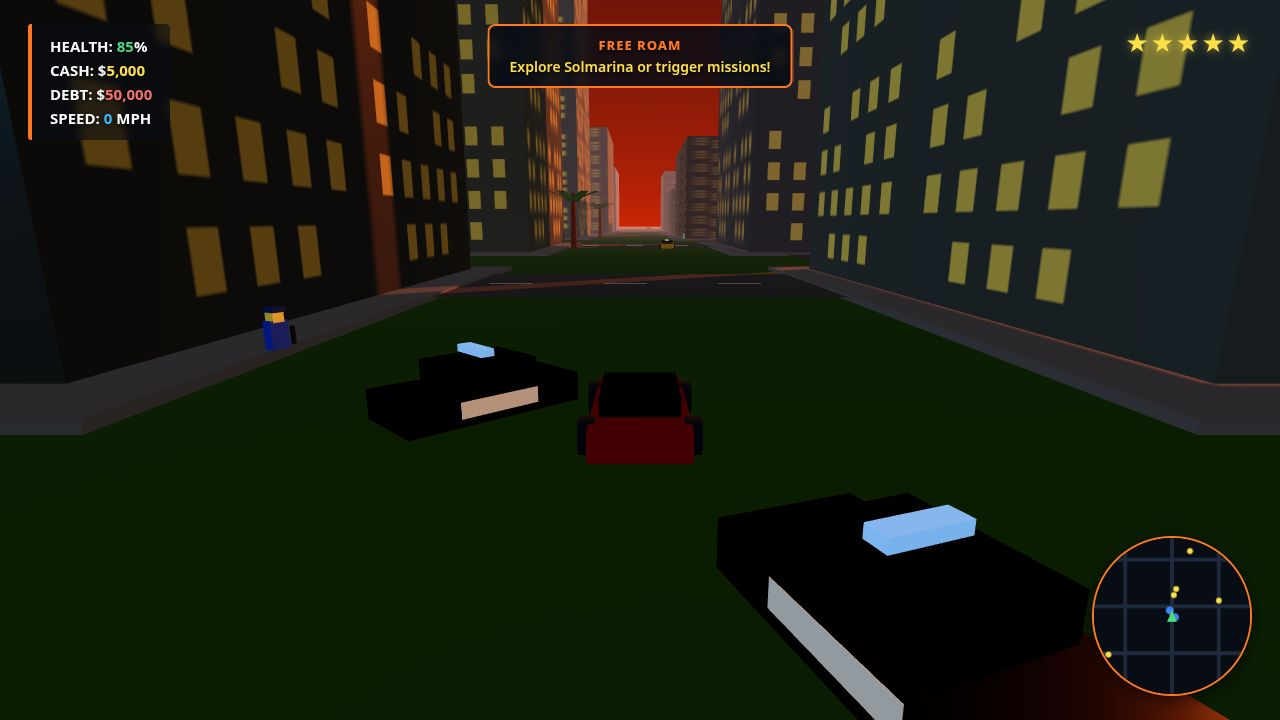
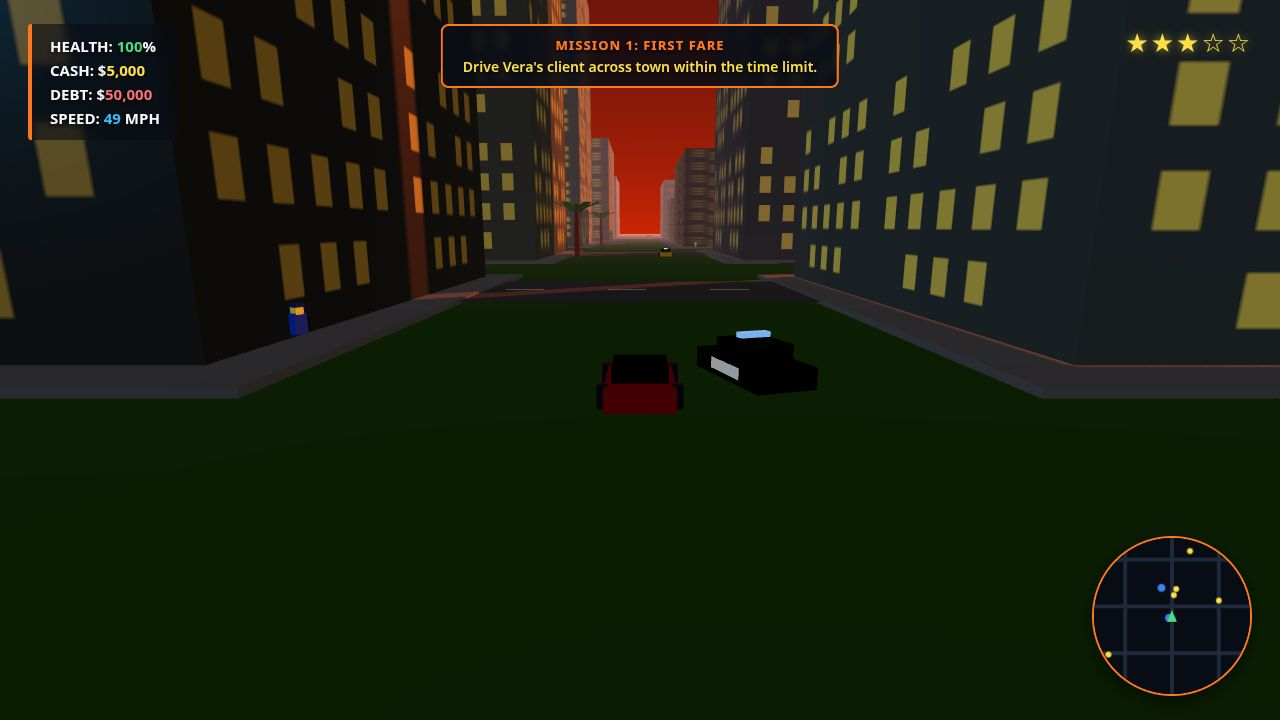
R3b3c: HUD refresh in stageShot, onfoot street position, beach de-blur + retaken screenshots
- stageShot() now calls hud.updateHUD() + updateMinimap() with the
  tick()-identical payload before freezing (fixes frozen HUD: 0 stars,
  0 MPH, hardcoded banner in R3b3b shots)
- mission objective fallback: curM.objective = curM.desc (mission objects
  carry desc, not objective; without this the banner renders 'undefined')
- onfoot player (-117,0,84) -> (70,0,0), waypoint -> (70,0,20): old spot
  was inside a building footprint; new spot is a real open road crossing
- hud.js: removed backdrop-filter blur(6px) from mission-complete screen
- Screenshots retaken: cover 3 stars/49 MPH, onfoot street+character,
  chase 4 stars/72 MPH, beach sharp; determinism 4/4 byte-identical
  (SPEED shown in MPH via HUD m/s->MPH conversion; state 22/32 m/s
  verified by probe, same as live gameplay)

diff --git a/game/src/shots.js b/game/src/shots.js
@@ -94,8 +94,8 @@ export function stageShot(game, name, seed) {
       m.packagesCollected = 2;
       m.packagesNeeded = 3;
       m.objective = "Collect 3 hidden packages around the city (2/3)";
-      m.waypoint.set(-117, 0, 93);
-      game.player.position.set(-117, 0, 84);
+      m.waypoint.set(70, 0, 20);
+      game.player.position.set(70, 0, 0);
       game.player.group.position.copy(game.player.position);
     }
     game.police.setWanted(0);
@@ -147,6 +147,10 @@ export function stageShot(game, name, seed) {
 
   if (name === 'cover' || name === 'chase') {
     game.missions.startMission(0);
+    // R3b3c: mission objects carry `desc`, not `objective` — without this
+    // updateHUD() would render the banner as "undefined".
+    const curM = game.missions.getCurrentMission();
+    if (curM) curM.objective = curM.desc;
     game.player.health = 100;
     if (name === 'cover') {
       if (game.activeCar) game.activeCar.speed = 22;
@@ -156,6 +160,27 @@ export function stageShot(game, name, seed) {
       game.police.setWanted(4);
     }
   }
+
+  // R3b3c: refresh HUD + minimap from the final staged state, before freezing.
+  // tick() early-returns once shotFrozen, so without this the frozen frame
+  // shows the initial HUD values. Payload identical to tick() in main.js.
+  const curMission = game.missions.getCurrentMission();
+  const waypoint = (curMission && curMission.active) ? curMission.targetPosition : null;
+  game.hud.updateHUD({
+    health: game.player.health,
+    cash: game.missions.getCash(),
+    debt: game.missions.getDebt(),
+    speed: game.activeCar ? game.activeCar.speed : 0,
+    policeStars: game.police.stars,
+    mission: curMission
+  });
+  game.hud.updateMinimap(
+    game.player.position,
+    game.activeCar ? game.activeCar.rotation : game.player.rotationY,
+    waypoint,
+    game.police.policeCars,
+    game.missions.sunCoins
+  );
 
   game.shotFrozen = true;
 

diff --git a/game/src/hud.js b/game/src/hud.js
@@ -109,7 +109,7 @@ export class HudSystem {
     if (!document.getElementById('mission-complete-screen')) {
       const mcScreen = document.createElement('div');
       mcScreen.id = 'mission-complete-screen';
-      mcScreen.style.cssText = 'position: absolute; top: 0; left: 0; width: 100%; height: 100%; background: rgba(8,12,20,0.9); display: none; flex-direction: column; align-items: center; justify-content: center; color: #f8fafc; z-index: 50; pointer-events: auto; text-align: center; padding: 20px; backdrop-filter: blur(6px);';
+      mcScreen.style.cssText = 'position: absolute; top: 0; left: 0; width: 100%; height: 100%; background: rgba(8,12,20,0.9); display: none; flex-direction: column; align-items: center; justify-content: center; color: #f8fafc; z-index: 50; pointer-events: auto; text-align: center; padding: 20px;';
       mcScreen.innerHTML = `
         <div style="font-size: 14px; font-weight: 800; color: #4ade80; letter-spacing: 3px; margin-bottom: 8px;">SUCCESS</div>
         <h2 id="mc-title" style="font-size: 40px; font-weight: 900; color: #fde047; margin: 0 0 15px 0; letter-spacing: 1px;">MISSION COMPLETE</h2>
